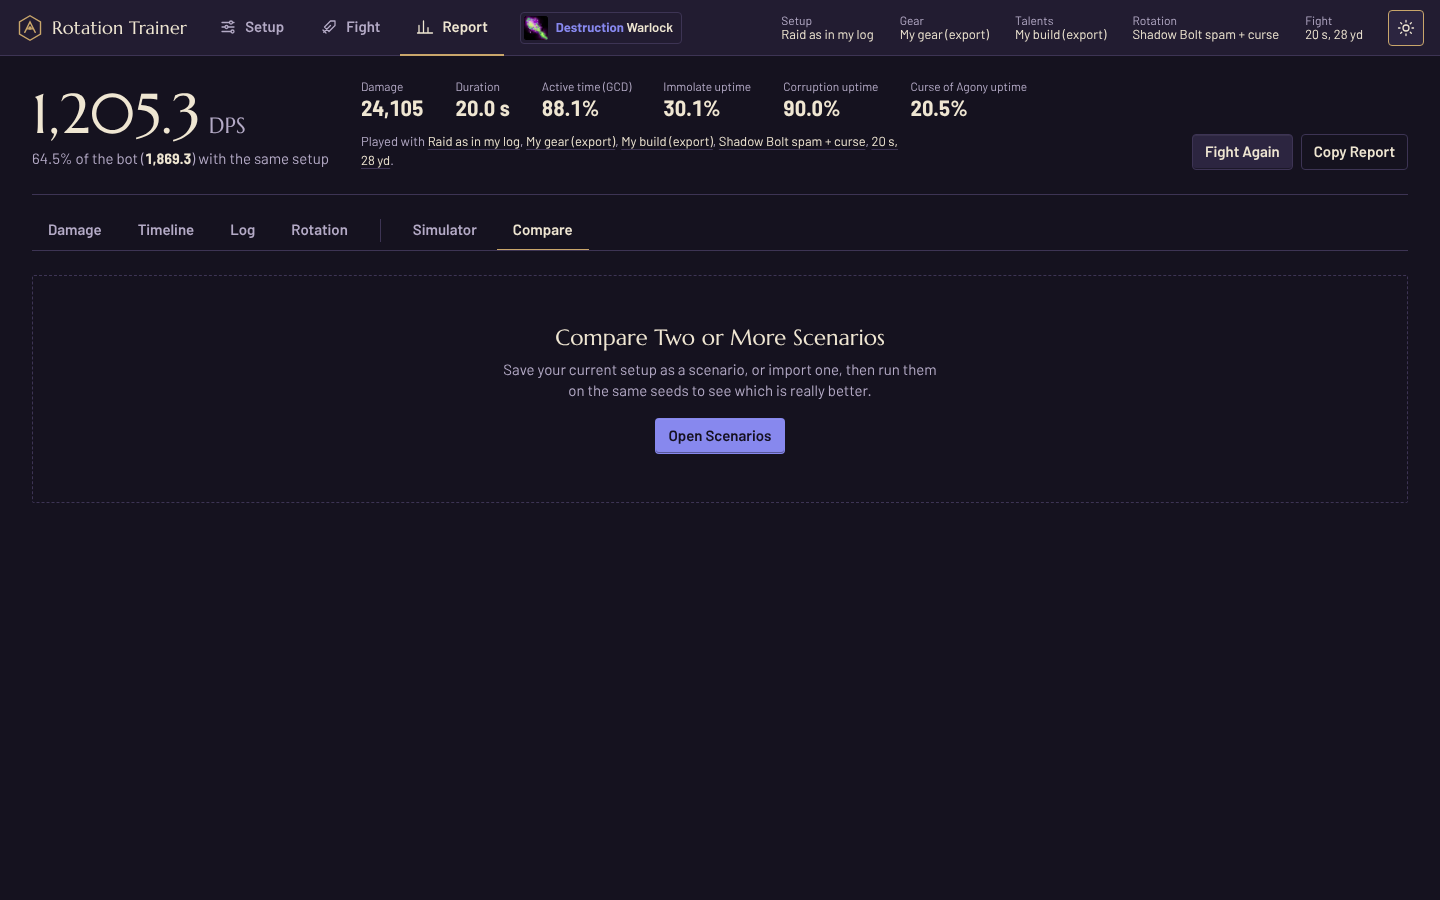
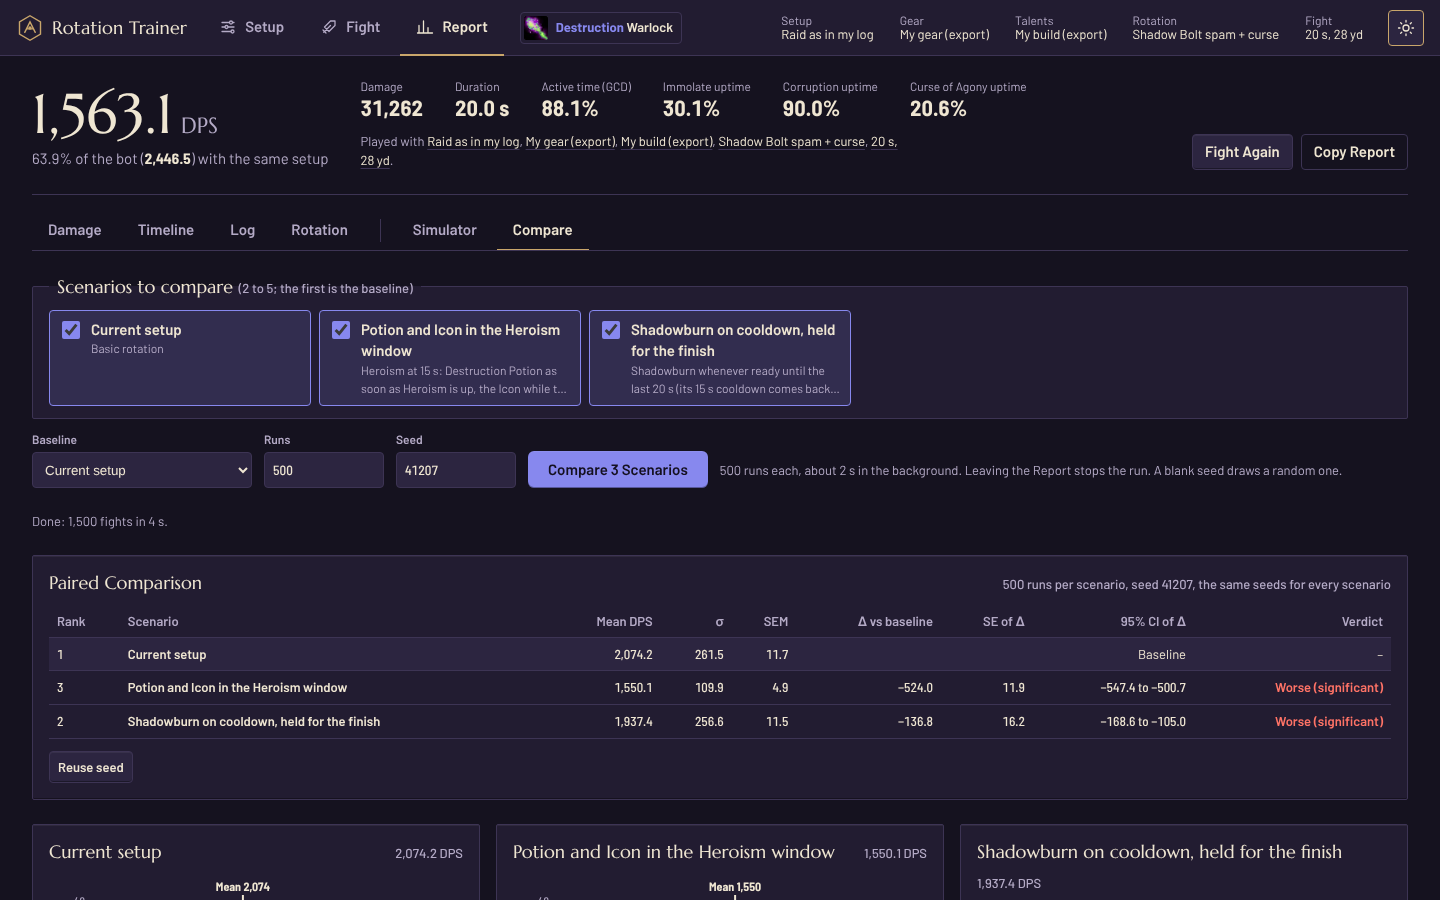
docs(ui): README for scripts, scenarios and compare; screens and app screenshots
Claude-Session: https://claude.ai/code/session_01CqwEqDpyULVnQakakeJLt5

diff --git a/README.md b/README.md
@@ -63,7 +63,7 @@ pasku.
   aktywny czas GCD, uptime DoT-ów), „Played with …” z linkami do sekcji, „Fight Again” i „Copy
   Report”. Zakładki: **Damage** (tabela czarów, buffy i przedmioty, wykres DPS, „What to look at”),
   **Timeline**, **Log** (filtr, wirtualizowana lista), **Rotation** (Ty vs bot), **Simulator**,
-  **Compare** (na razie pusty stan). Bez walki działają tylko Simulator i Compare. Opuszczenie
+  **Compare** (porównanie scenariuszy na tych samych ziarnach). Bez walki działają tylko Simulator i Compare. Opuszczenie
   raportu przerywa trwającą symulację.
 
 | Trasa | Widok |
@@ -90,7 +90,8 @@ Gdzie trafiły dawne panele:
 | Setup: Items and cooldowns | Setup → Items & cooldowns (z podglądem paska Items) |
 | Setup: Fight (długość, Heroism) i Distance | Setup → Fight settings |
 | Setup: Warlock options | Setup → Warlock options |
-| Setup: Rotation i Item use | Setup → Rotation (tryb Basic; tryb Script pokazuje reguły skryptu) |
+| Setup: Rotation i Item use | Setup → Rotation (tryb Basic; tryb Script to edytor skryptu rotacji) |
+| (nowe) Scenariusze, Compare | Setup → Scenarios (biblioteka, import, eksport, przykłady), Report → Compare |
 | Priority | Setup → Rotation („Priority of the next fight”), Fight → dock „Next by the script”, Report → Rotation |
 | Gear, Talents | Setup → Gear (import i eksport w okienkach), Setup → Talents |
 | Combat text | Setup → Combat text; szybki przełącznik w docku |
@@ -407,6 +408,78 @@ pasek akcji razem z walką, która go używa: z talentem Conflagrate slot `8` to
 rzucasz go sam, gdy Immolate jest na celu). Pisanie w polach importu i eksportu nie uruchamia
 skrótów klawiszowych.
 
+## Skrypty rotacji
+
+Tryb **Script** w Setup → Rotation zastępuje stałe pola konfiguratora listą reguł z warunkami (jak
+APL): bot, Simulator i podpowiedź „Next by the script” grają pierwszą regułę, której warunek jest
+prawdziwy i której akcję gra przyjmie; akcja odrzucona (cooldown, brak many) przechodzi do
+następnej reguły. Dopóki skrypt ma reguły, gra **zamiast** rotacji podstawowej (napis „Script
+active”, ustawienia trybu Basic są wtedy wyszarzone i czekają).
+
+- **Reguła**: włącznik, akcja (`Cast` czaru, `Use` przedmiotu, np. `item:29370` albo
+  `destruction-potion`, `Wait`: nic nie rób, gdy warunek jest prawdziwy), id z listy czarów i
+  przedmiotów buildu (albo „Other id…” i pole tekstowe), warunek, a pod „…” etykieta i komentarz.
+  Strzałki zmieniają kolejność, są też „Duplicate” i „Delete”. Pusty warunek = zawsze. Liczba po
+  prawej to średnia odpaleń reguły na walkę z ostatniej symulacji tego samego setupu.
+- **Warunki** to tekst: `&&`, `||`, `!`, nawiasy, porównania, liczby, np.
+  `heroism.active && target.aura.shadow-vulnerability.active` albo `use.item:281735.count >= 1`
+  (sekwencja: trinket 2 po trinkecie 1). Pełna gramatyka i lista zmiennych:
+  `docs/scenario-format.md` i `docs/data-sources.md`, „Part J”. Panel **Variables and Ids** obok
+  szuka zmiennych, funkcji i id buildu; „Insert” wstawia tekst w miejsce kursora ostatniego warunku.
+- **Walidacja na żywo**: błąd składni pod polem z pozycją („rules[0].if: column 7: …”), nieznane id
+  jako ostrzeżenie z podpowiedzią („Did you mean “immolate”?”); reguła z błędem albo nieznanym id
+  jest pomijana (lista „Priority of the next fight” pokazuje, co naprawdę gra). U góry licznik
+  „N errors, M warnings”.
+- **Named Conditions** (`defs`): warunek pisany raz i używany jako `$nazwa` (bez cykli).
+- **Convert From Basic Rotation** zamienia rotację podstawową (z regułami przedmiotów) w równoważny
+  skrypt: te same walki, krok w krok (gdy skrypt już jest, najpierw pyta). **Clear Script…** wraca
+  do rotacji podstawowej (pyta). **Edit as JSON** pokazuje cały skrypt jako tekst; „Apply JSON”
+  działa tylko dla poprawnego skryptu.
+- Skrypt jest częścią setupu (zapis w `rotation-trainer:setup:v1`) i działa od następnej walki
+  (walka, która jeszcze się nie zaczęła, bierze go od razu). Pisanie w polach nie uruchamia skrótów.
+
+## Scenariusze (Setup → Scenarios)
+
+Scenariusz to plik JSON (`rotation-trainer.scenario`, wersja 1): nazwa, opis, skrypt i opcjonalnie
+setup (gear, talenty, buffy, ustawienia walki, opcje klasy). Biblioteka w przeglądarce (osobny klucz
+`rotation-trainer:scenarios:v1`, do 100 scenariuszy):
+
+- **Save Current as Scenario…**: nazwa, opis i „Include the setup”. Bez aktywnego skryptu zapisuje
+  rotację podstawową przekonwertowaną na skrypt.
+- **Apply…** pyta i mówi, co zastąpi (rotację, a z „Also apply its setup” także gear, talenty,
+  buffy…); pokazuje też ostrzeżenia scenariusza wobec bieżącego setupu.
+- **Export…**: „Copy JSON” albo „Download File”. **Import Scenario…**: wklej tekst albo wybierz plik
+  (do 200 000 znaków); raport walidacji (błędy blokują zapis, ostrzeżenia nie) i podgląd przed
+  „Save to Library”. Pliki są traktowane jako niezaufane (limity rozmiaru i głębokości, bez `eval`).
+- **Duplicate**, **Rename…**, **Delete…** (pyta). **Examples**: przykłady z `docs/scenarios/`
+  (m.in. „Pipe, then Icon”: trinket 1 w Heroismie z Improved Shadow Bolt, potem trinket 2).
+- Gdy przeglądarka nie pozwala zapisać, panel mówi „Not saved…”; biblioteka działa wtedy do
+  przeładowania strony (wyeksportuj, co chcesz zachować).
+
+**Scenariusz od agenta AI:** daj agentowi `docs/scenario-format.md` (format, zmienne, id, przykłady,
+gotowy szablon prośby) i `docs/scenario.schema.json`. Agent może sam sprawdzić plik bez przeglądarki:
+`npm run scenario:validate -- plik.json`, `npm run scenario:run -- plik.json --runs 1000 --seed 1`
+i `npm run scenario:compare -- a.json b.json`. Gotowy plik wklej w „Import Scenario…”.
+
+## Porównanie scenariuszy (Report → Compare)
+
+Zaznacz 2-5 pozycji: „Current setup” i scenariusze z biblioteki (każdy gra na bieżącym setupie z
+własnymi częściami setupu, jak „Apply” z „Also apply its setup”). Pierwsza (pole **Baseline**) to
+punkt odniesienia. Runs, Seed, „Compare N Scenarios”, Cancel i pasek postępu działają jak w
+Simulatorze (Web Worker, migawka z chwili kliknięcia).
+
+- **Te same ziarna**: walka nr i każdego scenariusza ma to samo ziarno, więc różnice są
+  **sparowane** i dużo dokładniejsze niż porównanie dwóch osobnych symulacji.
+- **Tabela**: ranking, średni DPS, σ, SEM, **Δ vs baseline**, błąd standardowy różnic
+  sparowanych, 95% przedział Δ i werdykt („Better/Worse (significant)”, gdy przedział nie obejmuje
+  0, inaczej „No clear difference”). Pod spodem histogramy obok siebie i średnie odpalenia każdej
+  reguły na walkę.
+- **Zastrzeżenie**: każdy scenariusz to osobny test wobec bazowego, bez poprawki na wielokrotne
+  porównania: przy 4 testach szansa, że któryś „istotny” werdykt jest przypadkiem, to około 19%.
+  Zaskakującego zwycięzcę sprawdź jeszcze raz innym ziarnem albo większą liczbą walk.
+- Scenariusz z błędem wobec bieżącego setupu blokuje Run i ma link do Scenarios. Ostatni wynik
+  zostaje po przejściu do innej zakładki lub trybu (do przeładowania strony).
+
 ## Symulator
 
 Zakładka **Report → Simulator** gra setup **następnej walki** (gear, talenty, buffy, rotacja z
@@ -496,6 +569,11 @@ sekcja „What the DPS excludes” w `docs/data-sources.md`.
 - Etap 2b (talenty): specyfikacja `docs/superpowers/specs/2026-11-03-talents-stage-2b-design.md`,
   plan `docs/superpowers/plans/2026-11-03-talents-stage-2b.md`; tabela efektów talentów, powody
   niezamodelowanych, presety i uproszczenia: `docs/data-sources.md`, „Part I: talents”
+- Skrypty rotacji, scenariusze i porównania: specyfikacja
+  `docs/superpowers/specs/2026-11-03-rotation-scripts-and-scenarios-design.md`, plan
+  `docs/superpowers/plans/2026-11-03-rotation-scripts-and-scenarios.md`; format scenariusza dla ludzi
+  i agentów AI: `docs/scenario-format.md`, schemat `docs/scenario.schema.json`, przykłady
+  `docs/scenarios/`; gramatyka, zmienne i statystyka: `docs/data-sources.md`, „Part J”
 - Źródło każdej liczby (wowsims, Wowhead), założenia i otwarte pytania: `docs/data-sources.md`
 - Decyzje projektowe (kolejka czarów): `docs/decisions/`
 
@@ -507,6 +585,8 @@ sekcja „What the DPS excludes” w `docs/data-sources.md`.
 | `src/data` | dane gry: współczynniki, cel, katalog buffów, Destruction Warlock (czary, aury, talenty, przedmioty, zestawy, presety gearu, rotacja), baza przedmiotów (`src/data/items`) |
 | `src/setup` | setup walki: domyślne ustawienia i ich walidacja, presety, zapis w `localStorage`, zamiana setupu na dane walki, walidacja gearu, import i eksport wowsims |
 | `src/bot` | bot grający listę priorytetów (punkt odniesienia DPS) |
-| `src/sim-runner` | symulator wielu walk (bez Reacta): przebiegi, statystyki, Web Worker i jego klient |
-| `src/ui` | interfejs React: `shell/` (nagłówek, router, skróty), `state/` (TrainerProvider), `fight/` (arena, dock), `setup/` (sekcje, podsumowanie), `report/` i `charts/` (raport, wykresy), `theme/` (tokeny, fonty, motyw) oraz edytory Setup (SetupPanel, GearPanel, TalentsPanel, ItemUseEditor, CombatTextSettings, SimulatorPanel) |
+| `src/script` | język skryptów rotacji (bez Reacta): parser, walidacja, kompilator, konwerter z rotacji podstawowej |
+| `src/scenarios` | format scenariusza, biblioteka i jej zapis, przykłady, CLI (`scenario:validate`, `scenario:run`, `scenario:compare`) |
+| `src/sim-runner` | symulator wielu walk (bez Reacta): przebiegi, statystyki, odpalenia reguł, porównanie sparowane, Web Worker i jego klient |
+| `src/ui` | interfejs React: `shell/` (nagłówek, router, skróty), `state/` (TrainerProvider), `fight/` (arena, dock), `setup/` (sekcje, podsumowanie, ScriptEditor, ScenariosPanel), `report/` i `charts/` (raport, ComparePanel, wykresy), `theme/` (tokeny, fonty, motyw) oraz edytory Setup (SetupPanel, GearPanel, TalentsPanel, ItemUseEditor, CombatTextSettings, SimulatorPanel) |
 | `tests` | testy Vitest: `engine`, `data`, `bot`, `setup`, `sim-runner`, `ui` oraz `smoke.test.ts` (`fixtures`: dane referencyjne, m.in. logi bota sprzed zmian) |
